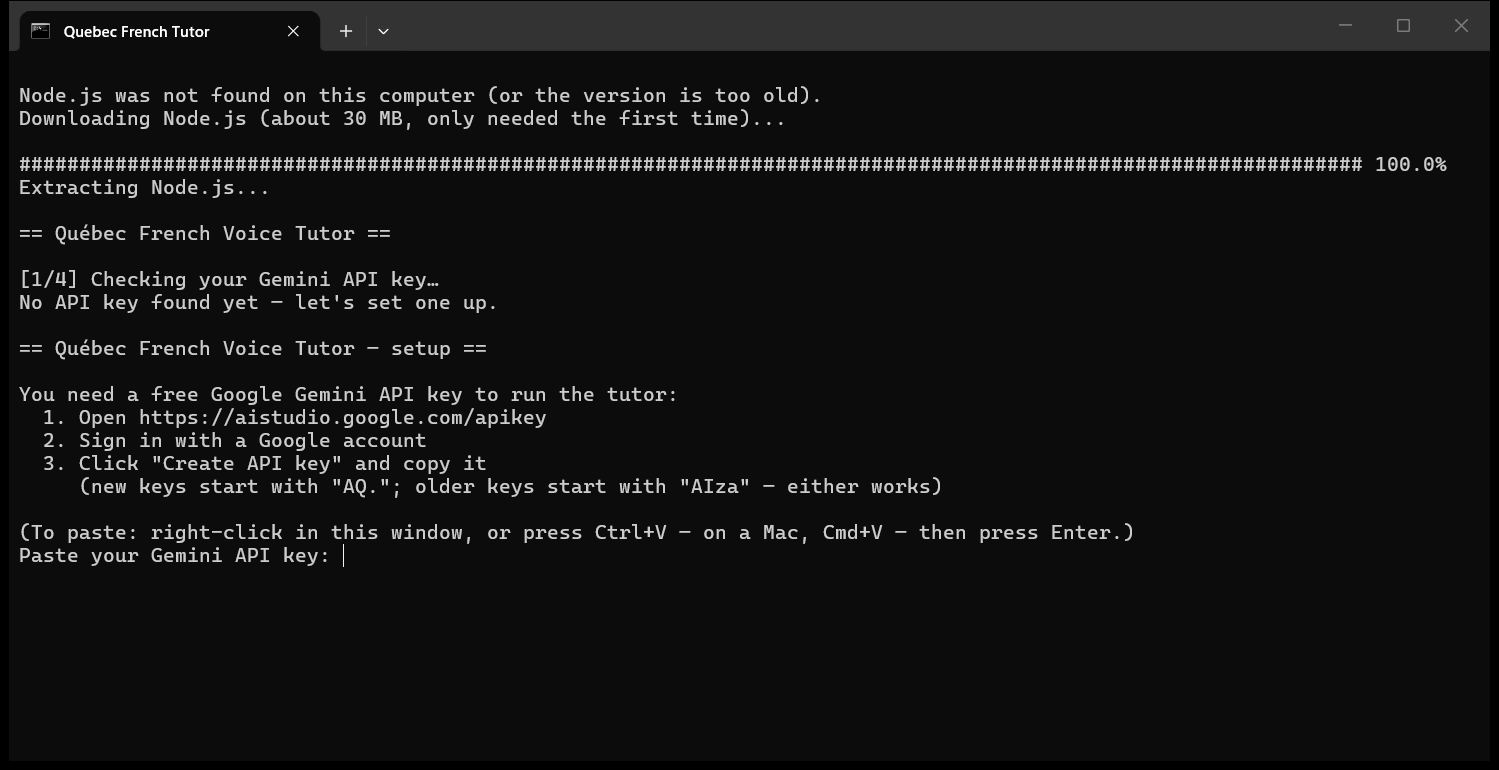
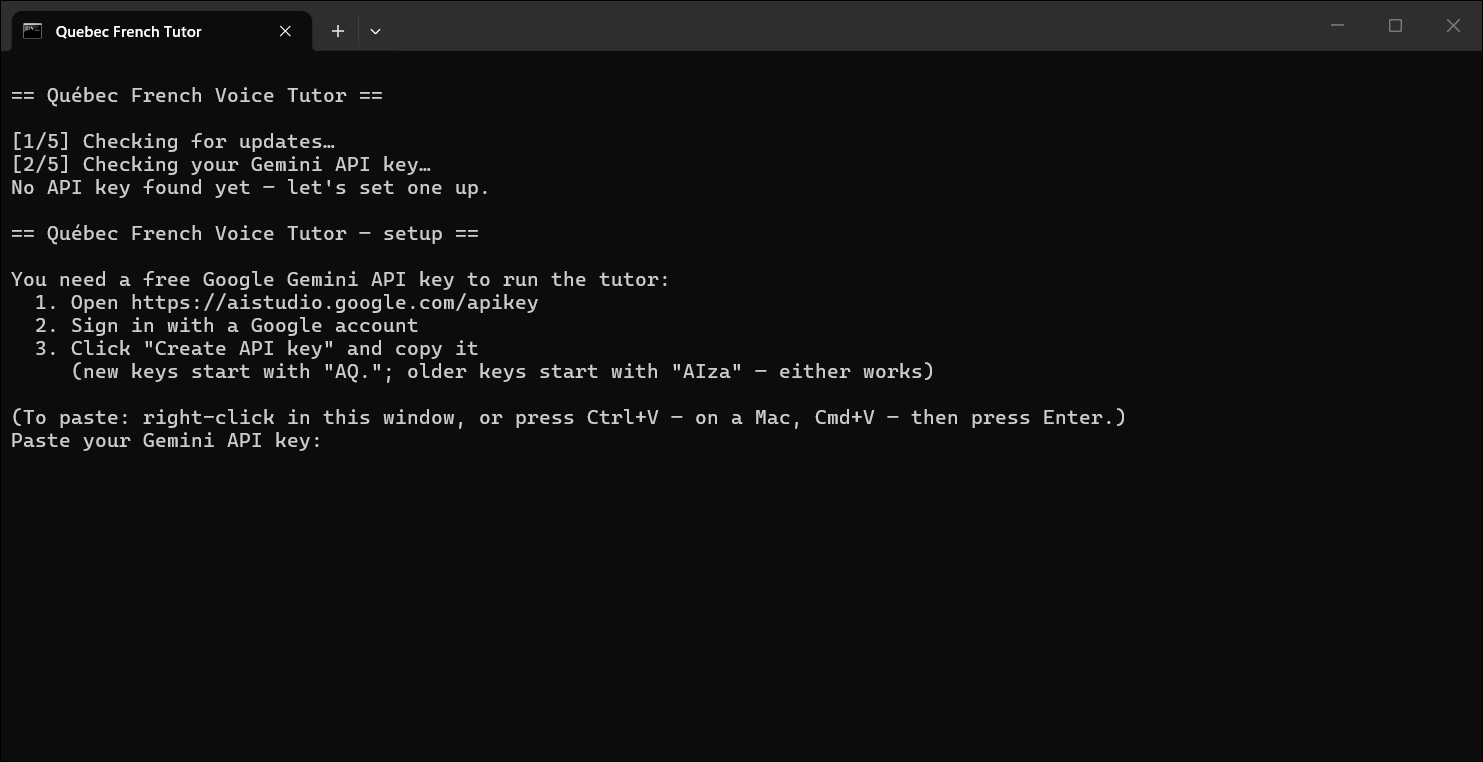
docs: README install/update/uninstall steps and v0.6.0 screenshots
Separate, step-by-step Stopping / Updating / Uninstalling sections, with
exact folder and shortcut locations for Windows and Mac and a one-line
remove command for each. Updating leads with "nothing to do", the v0.1.0
note is shortened. Re-shot the launcher key prompt and start-up steps
from the real v0.6.0 launcher, added the tutor app window (demo learner),
and dropped the old browser-tab microphone screenshot; the permission
step is described in words.

Claude-Session: https://claude.ai/code/session_01DELcaZf6ep68NbWqrmZmWT

diff --git a/README.md b/README.md
@@ -16,6 +16,8 @@
 <p align="center">
   <a href="#how-to-use-it"><b>How to use it</b></a> ·
   <a href="#step-1--get-your-free-gemini-api-key"><b>Install</b></a> ·
+  <a href="#updating"><b>Update</b></a> ·
+  <a href="#uninstalling"><b>Uninstall</b></a> ·
   <a href="#-your-privacy"><b>Privacy</b></a> ·
   <a href="#troubleshooting"><b>Troubleshooting</b></a> ·
   <a href="#using-the-tutor"><b>Features</b></a> ·
@@ -44,9 +46,8 @@
 
 You don't need a paid account, Git, or any programming tools.
 
-> **Already installed the tutor before 21 September 2026?** You are on v0.1.0, which
-> cannot update itself. See [Updating](#updating) for the single line that brings you up
-> to date without losing your key or your progress.
+**Already installed?** Updates are offered by themselves when you start the tutor
+([Updating](#updating)). To remove it, see [Uninstalling](#uninstalling).
 
 ---
 
@@ -62,13 +63,13 @@ Once it's installed, this is all you do. Every time.
     <th width="25%">4. Hang up</th>
   </tr>
   <tr>
-    <td valign="top">Double-click <b>Quebec French Tutor</b> on your Desktop. A short message window flashes up, then the tutor opens in its own window.</td>
+    <td valign="top">Double-click <b>Quebec French Tutor</b> on your Desktop. A small black window shows for a few seconds, then the tutor opens in its own window.</td>
     <td valign="top">Press the big <b>Start conversation</b> button — or first pick the kind of call you want. The tutor greets you.</td>
     <td valign="top">When it says <b>Listening…</b>, speak. Take your time; it waits through pauses.</td>
     <td valign="top">Say <i>"on arrête"</i> or press <b>End Conversation</b>. Your progress is saved.</td>
   </tr>
   <tr>
-    <td><img src="docs/images/windows-running.png" alt="The tutor window after double-clicking the icon"></td>
+    <td><img src="docs/images/app-window.png" alt="The tutor in its own window after double-clicking the icon"></td>
     <td><img src="docs/images/ready.png" alt="The Start conversation button, with the choice of call underneath"></td>
     <td><img src="docs/images/conversation.png" alt="A conversation with the transcript"></td>
     <td><img src="docs/images/summary.png" alt="The summary after a call"></td>
@@ -161,7 +162,7 @@ travels with it.
 
 **To delete everything:** delete the **Quebec French Tutor** folder. That's it — nothing
 is left anywhere else, and nothing remains on any server of mine because it was never
-there. (See [Uninstalling](#stopping-updating-and-uninstalling) to also revoke the key.)
+there. (See [Uninstalling](#uninstalling) for the exact steps and to also revoke the key.)
 
 ---
 
@@ -225,25 +226,29 @@ is a password-like code that lets the tutor use Gemini on your behalf. It is fre
 
    <img src="docs/images/windows-install.png" alt="What the installer prints when it's done" width="600">
 
-3. The new **Quebec French Tutor** window gets Node.js (if needed), then asks for your key:
+3. A second black window called **Quebec French Tutor** opens. The first time, it
+   downloads Node.js if your PC needs it, then asks for your key:
 
    <img src="docs/images/windows-key-prompt.png" alt="The launcher asking for the Gemini API key" width="600">
 
    **Paste your key** (right-click in the window, or press **Ctrl+V**) and press **Enter**.
    The characters you paste stay visible; that's normal. The launcher checks the key with
-   Google and saves it.
+   Google and saves it. You are asked only once.
 4. The first start then installs the tutor's components and prepares the app (1–3
-   minutes; just wait). Then the tutor opens **in its own window** and the launcher says
-   **The tutor is open in its own window. You can close this window.**
+   minutes; just wait). You see it work through five short steps:
 
-   <img src="docs/images/windows-running.png" alt="The launcher once the tutor is running" width="600">
+   <img src="docs/images/windows-running.png" alt="The launcher working through its five steps" width="600">
 
-5. Continue with [Your first conversation](#step-3--your-first-conversation).
+5. The tutor opens **in its own window**, and the black window closes by itself:
+
+   <img src="docs/images/app-window.png" alt="The tutor in its own window" width="600">
+
+6. Continue with [Your first conversation](#step-3--your-first-conversation).
 
 > [!NOTE]
-> The black launcher window closes by itself once the tutor is open. The tutor now runs
-> behind its own window: **closing the tutor window stops it.** You can close the
-> PowerShell window from step 1; you won't need it again.
+> You can close the PowerShell window from step 1; you won't need it again. From now on,
+> start the tutor with the **Quebec French Tutor** icon on your Desktop or in the Start
+> menu. **Closing the tutor window stops it.**
 
 <details>
 <summary><b>Alternative: download the ZIP instead</b> (more steps)</summary>
@@ -375,14 +380,15 @@ The tutor opens in its own window by itself. Its page comes from your own comput
 
    <img src="docs/images/ready.png" alt="Ready to start, with the choice of call underneath" width="480">
 
-5. **Allow the microphone.** The tutor window asks to use your microphone (only once). Click
-   **Allow while visiting the site** (Chrome) or **Allow** (Edge). If you have more than
-   one microphone, pick the right one in the drop-down menu first.
-
-   <img src="docs/images/mic-permission.png" alt="Chrome asking for microphone permission" width="520">
+5. **Allow the microphone.** The first time only, a small box appears at the top left of
+   the tutor window asking to use your microphone (it names `127.0.0.1`, which is the
+   tutor on your own computer). Click **Allow
+   while visiting the site** (or **Allow**). If you have more than one microphone, pick
+   the right one in its drop-down menu first. Don't click *Never allow*; if you did, see
+   [the microphone is blocked](#troubleshooting).
 
    **On a Mac, the first time only**, macOS also asks *"Google Chrome would like to access
-   the microphone"*. Click **Allow** (or **OK**).
+   the microphone"* (or Edge / Brave). Click **Allow** (or **OK**).
 6. **The tutor speaks first.** Within a few seconds the circle fills in blue, it says
    **Speaking…**, and you hear a greeting. Its words also appear in the **Transcript**
    box.
@@ -406,85 +412,133 @@ The tutor opens in its own window by itself. Its page comes from your own comput
 
 ---
 
-## Stopping, updating and uninstalling
+## Stopping the tutor
 
-**Stopping:** close the tutor window. That stops everything; your progress is already
-saved. On Windows the icon is also in the Start menu.
+**Close the tutor window** (the ✕ at its top right). That stops everything; your progress
+is already saved.
 
-Double-clicking the icon while the tutor is already open opens a second tutor window.
-The tutor stops once every tutor window is closed.
+- Double-clicking the icon while the tutor is open opens a second tutor window. The tutor
+  stops once every tutor window is closed.
+- On Windows, the **Quebec French Tutor** icon is also in the Start menu.
 
-### Updating
+---
+
+## Updating
+
+**You don't have to do anything special.** Start the tutor as usual. Each time, the small
+black window checks whether a newer version exists (it asks GitHub for one small file and
+sends nothing about you). If there is one, it tells you what's new and asks:
+
+```text
+A new version is available (v0.7.0 — you have v0.6.0).
+  - …what changed…
+Update now? [Y/n]
+```
+
+1. Press **Enter** to update (or type **n** and press Enter to skip; you'll be asked
+   again next time).
+2. Wait. The update takes a few seconds, then the app is prepared again (about a minute).
+3. The tutor opens on the new version.
+
+Your **API key, your progress and your settings are kept.** Only the program files are
+replaced, and nothing is ever updated without asking you or while the tutor is running.
+
+**Which version do I have?** It's in small grey text at the bottom of the tutor window,
+next to *Memory* and *Voice*. [CHANGELOG.md](CHANGELOG.md) lists what changed in each
+version, in plain language.
 
 > [!IMPORTANT]
-> **Installed before 21 September 2026 (v0.1.0)? Do this once.**
-> The automatic update check didn't exist in that version, so your tutor can't offer
-> it to you — it will keep running v0.1.0 forever until you do this one step.
-> **Close the tutor window**, then paste the same one line you used to install it:
->
-> **Windows** — open **PowerShell** (Start menu → type *PowerShell* → Enter) and paste:
+> **Installed before 21 September 2026?** If the bottom of the tutor window says **v0.1.0**,
+> your copy is too old to update itself. Do this once: **close the tutor window**, then
+> paste the same line you used to install it (Windows: in **PowerShell**; Mac: in
+> **Terminal**):
 >
 > ```powershell
 > irm https://raw.githubusercontent.com/mkazbekov/French_Quebecois_Agent/main/install-windows.ps1 | iex
 > ```
 >
-> **Mac** — open **Terminal** (⌘Space → type *Terminal* → Enter) and paste:
->
 > ```bash
 > curl -fsSL https://raw.githubusercontent.com/mkazbekov/French_Quebecois_Agent/main/install-mac.sh | bash
 > ```
 >
-> It keeps your **API key, your progress and your settings** and replaces only the
-> program, exactly like a fresh install on top. The tutor starts by itself when it
-> finishes. Check the bottom of the page afterwards: it should say **v0.2.0** or newer.
-> From then on, updates are offered automatically — you never have to do this again.
-
-**Already on v0.2.0 or newer? You don't have to do anything — just start the tutor as
-usual.**
-
-Every time you double-click **Quebec French Tutor**, the short launcher window checks
-whether a newer version exists (it asks GitHub for one small file and sends nothing about
-you). If there is one, it shows what's new and asks:
-
-```text
-A new version is available (v0.3.0 — you have v0.2.0)
-  - Real-time transcript
-  - Multiple-choice checks during lessons
-Update now? [Y/n]
-```
-
-Press **Enter** to update. It takes a few seconds, the app is prepared again (about a
-minute), then the tutor opens on the new version. Your **API key, your progress and your settings are kept** — only the program
-files are replaced. Press **n** if you'd rather stay on the version you have; you'll be
-asked again next time.
-
-The version you're running is shown in small grey text at the bottom of the tutor's
-page, next to *Memory* and *Voice*. [CHANGELOG.md](CHANGELOG.md) lists what changed in
-each version.
+> It installs the new version on top and keeps your key, progress and settings. After
+> that, updates are offered automatically.
 
 <details>
 <summary><b>Other ways to update</b></summary>
 
 <br>
 
-- **If you skipped the prompt and want to update now:** close the tutor, double-click the
-  icon again, and press Enter at the question.
-- **Manually, from the tutor's folder:** `npm run update`
-- **The old way (always works):** close the tutor window and paste the same one-line
-  install command from [Step 2](#step-2-windows--install-and-start) again. It replaces
-  the program and keeps your key and progress.
-- **If you installed with Git:** run `git pull` in the tutor's folder.
+- **You pressed n and changed your mind:** close the tutor, double-click the icon again,
+  and press Enter at the question.
+- **Reinstall on top (always works):** close the tutor window and paste the install line
+  from [Step 2](#step-2-windows--install-and-start) again. It replaces the program and
+  keeps your key and progress.
+- **From the tutor's folder:** `npm run update`.
+- **If you installed with Git:** close the tutor and run `git pull` in its folder.
 - **To turn the check off:** set the environment variable `TUTOR_NO_UPDATE_CHECK=1`.
-  The tutor never updates itself without asking, and never while it is running.
 
 </details>
 
-### Uninstalling
+---
 
-Close the tutor, then delete the **Quebec French Tutor** folder in your user/home folder
-and the Desktop (and Windows Start menu) icon. That removes everything, including your
-saved progress. To also revoke the key, open the AI Studio API Keys page, click **⋮** at the
-end of the key's row, choose **Delete key**, then **Delete**.
+## Uninstalling
+
+Everything the tutor uses lives in one folder, plus its shortcuts. Deleting them removes
+the app **and your saved progress**, completely. Nothing is left on any server.
+
+### Windows
+
+1. **Close the tutor window.**
+2. **Delete the folder.** Press **Windows key + R**, type `%USERPROFILE%` and press
+   **Enter**. In the folder that opens, right-click **Quebec French Tutor** → **Delete**.
+3. **Delete the shortcuts.** Right-click the **Quebec French Tutor** icon on your Desktop →
+   **Delete**. Then press **Windows key + R**, type `shell:programs`, press **Enter**, and
+   delete **Quebec French Tutor** there too (that's the Start menu entry).
+
+<details>
+<summary><b>Or do all of it with one line in PowerShell</b></summary>
+
+<br>
+
+Close the tutor window first, then paste this into **PowerShell** and press **Enter**:
+
+```powershell
+Remove-Item -Recurse -Force "$HOME\Quebec French Tutor", "$([Environment]::GetFolderPath('Desktop'))\Quebec French Tutor.lnk", "$([Environment]::GetFolderPath('Programs'))\Quebec French Tutor.lnk" -ErrorAction SilentlyContinue
+```
+
+</details>
+
+### Mac
+
+1. **Close the tutor window** (and Terminal, if it is still open for the tutor).
+2. **Delete the folder.** In Finder, choose **Go → Home** (⇧⌘H), then drag
+   **Quebec French Tutor** to the Trash.
+3. **Delete the shortcut.** Drag **Quebec French Tutor** from your Desktop to the Trash.
+4. Empty the Trash.
+
+<details>
+<summary><b>Or do all of it with one line in Terminal</b></summary>
+
+<br>
+
+```bash
+rm -rf ~/"Quebec French Tutor" ~/Desktop/"Quebec French Tutor.command"
+```
+
+</details>
+
+### If you installed from the ZIP or with Git
+
+Delete the folder you extracted or cloned (for example **French_Quebecois_Agent-main**).
+There are no shortcuts to remove.
+
+### Also revoke the API key (optional)
+
+The key still exists in your Google account after the app is gone. To switch it off, open
+<https://aistudio.google.com/apikey>, click **⋮** at the end of the key's row, choose
+**Delete key**, then **Delete**.
+
 ---
 
 ## Troubleshooting
@@ -517,9 +571,8 @@ The page shows: *"The browser blocked the microphone…"*
 <br>
 
 - Plug in your headset or microphone and press **Retry**.
-- Make sure the right microphone is selected. In Chrome/Edge, click the icon left of the
-  address bar, then **Site settings**, and choose the device, or pick it in the permission
-  prompt's drop-down.
+- Make sure the right microphone is selected: pick it in the permission box's drop-down
+  the first time, or in your computer's sound settings:
   - **Windows:** **Settings → System → Sound → Input**: choose your microphone and
     speak to see the level bar move.
   - **Mac:** **System Settings → Sound → Input**: choose your microphone and watch the
